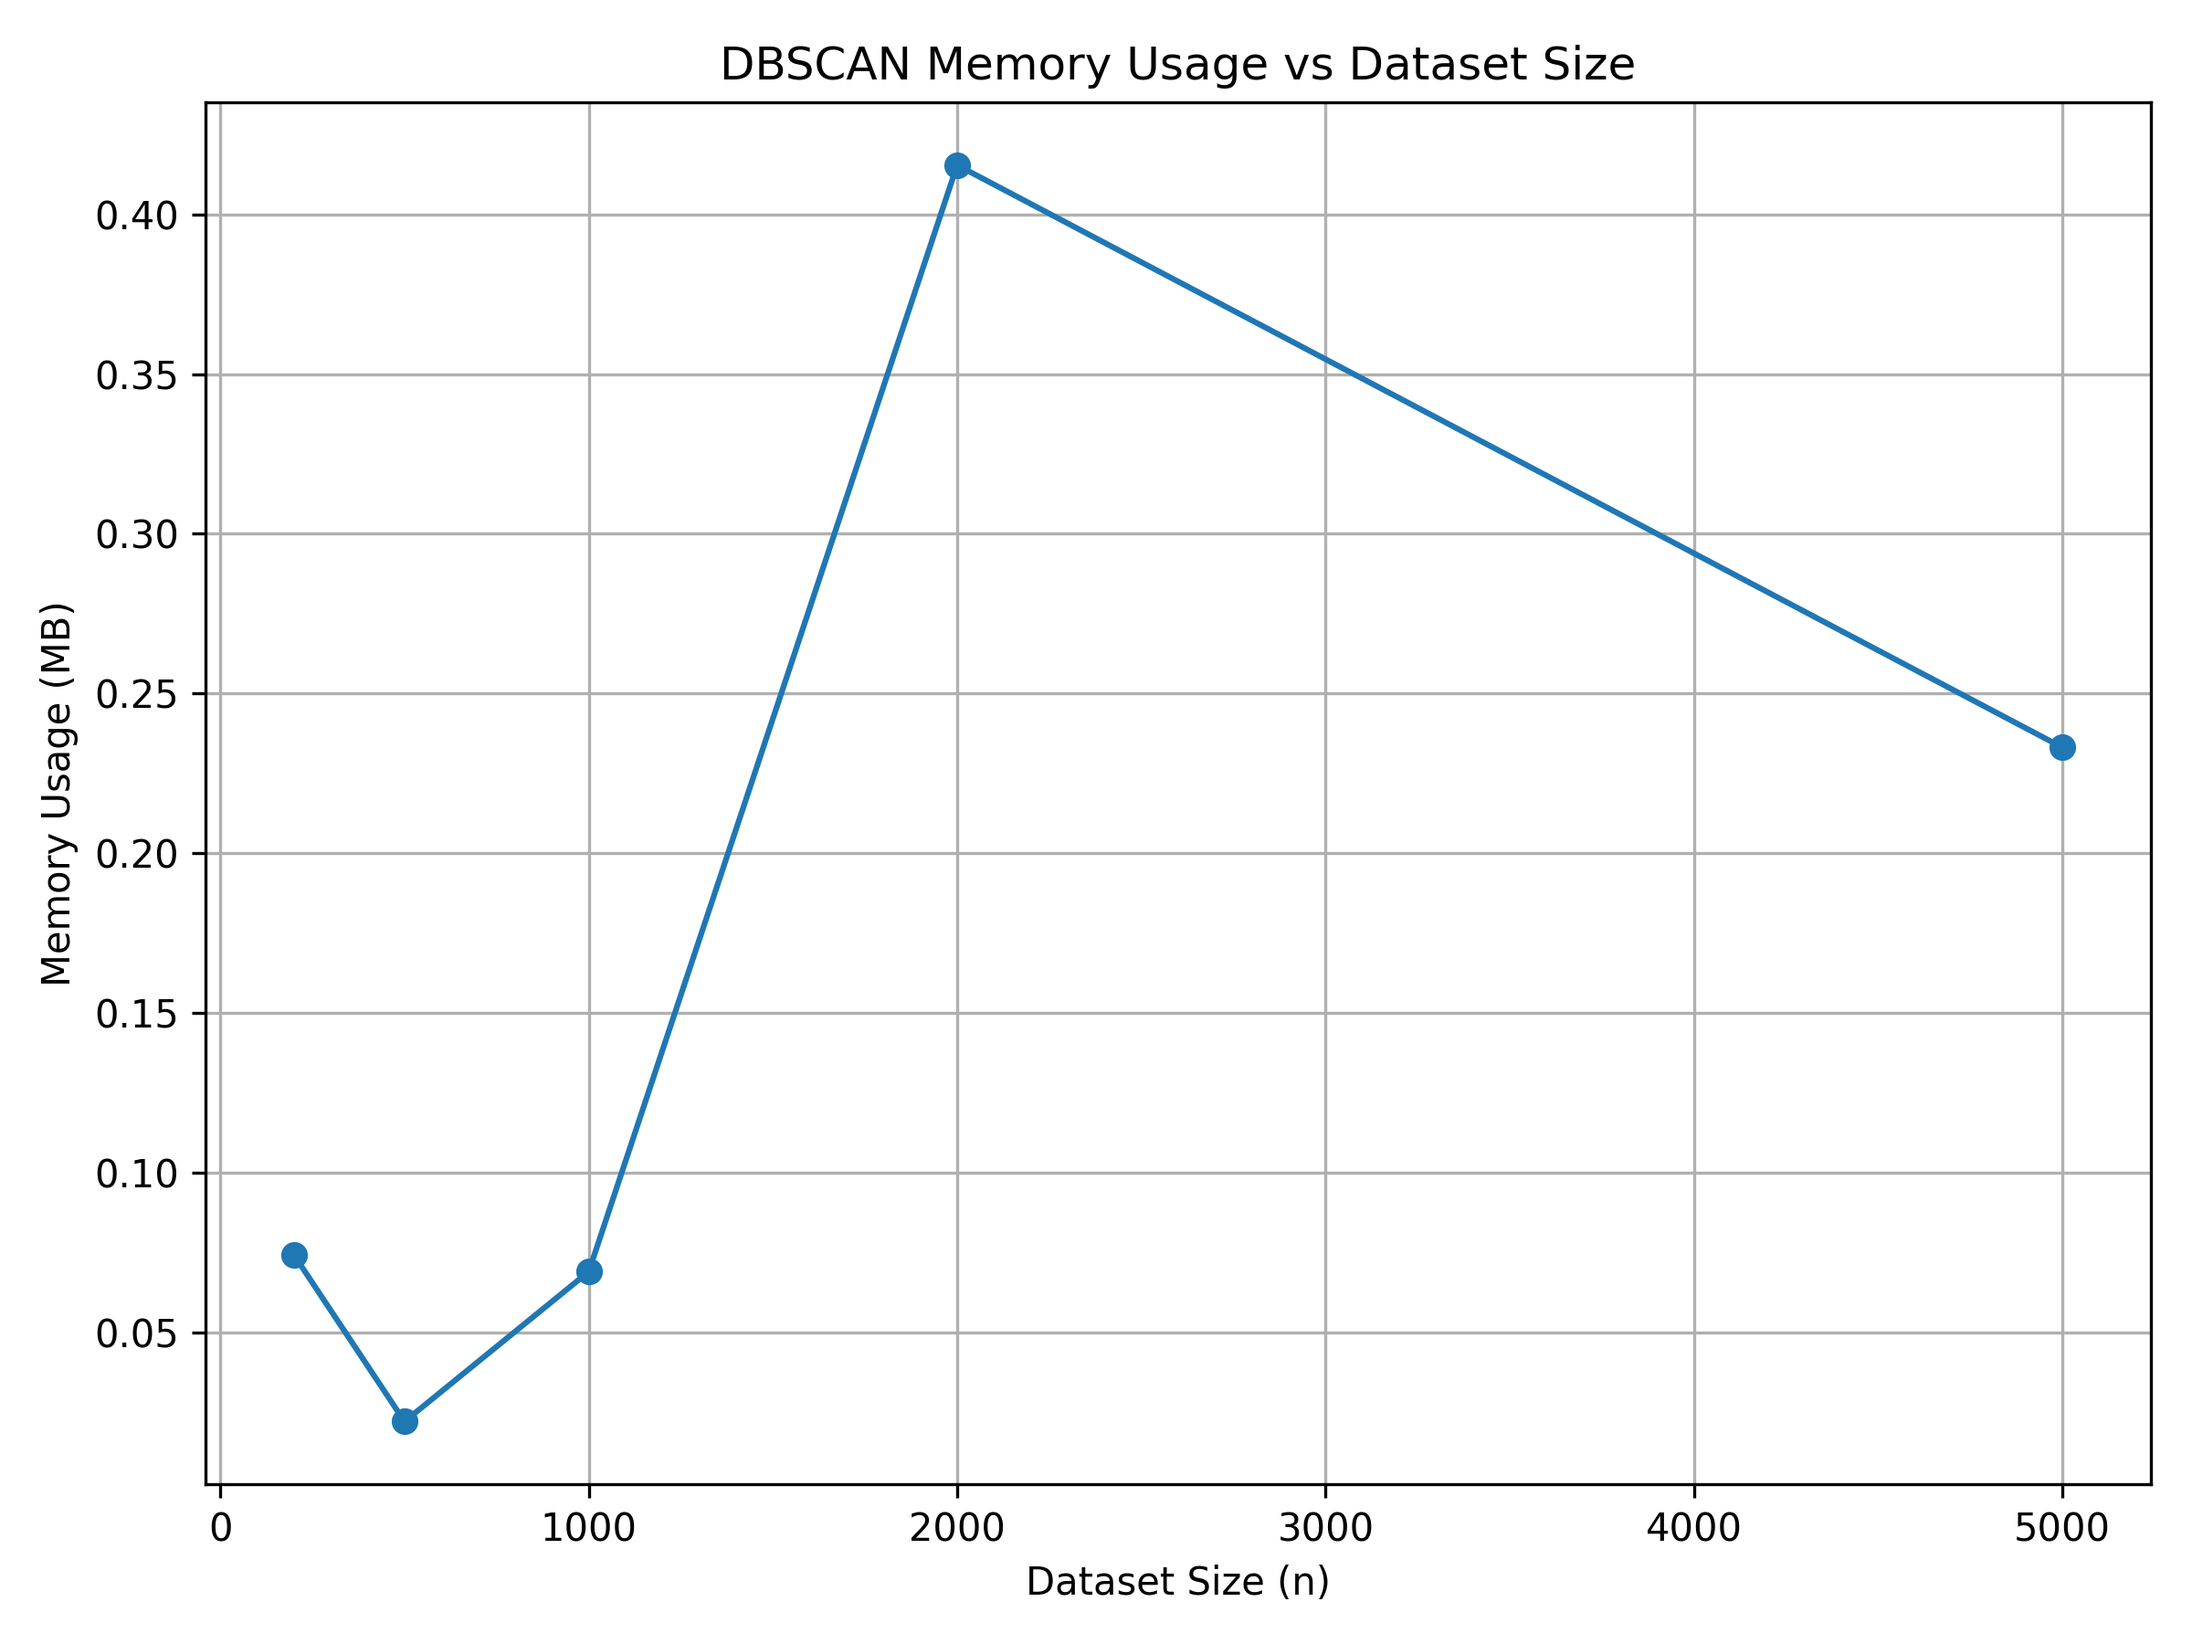
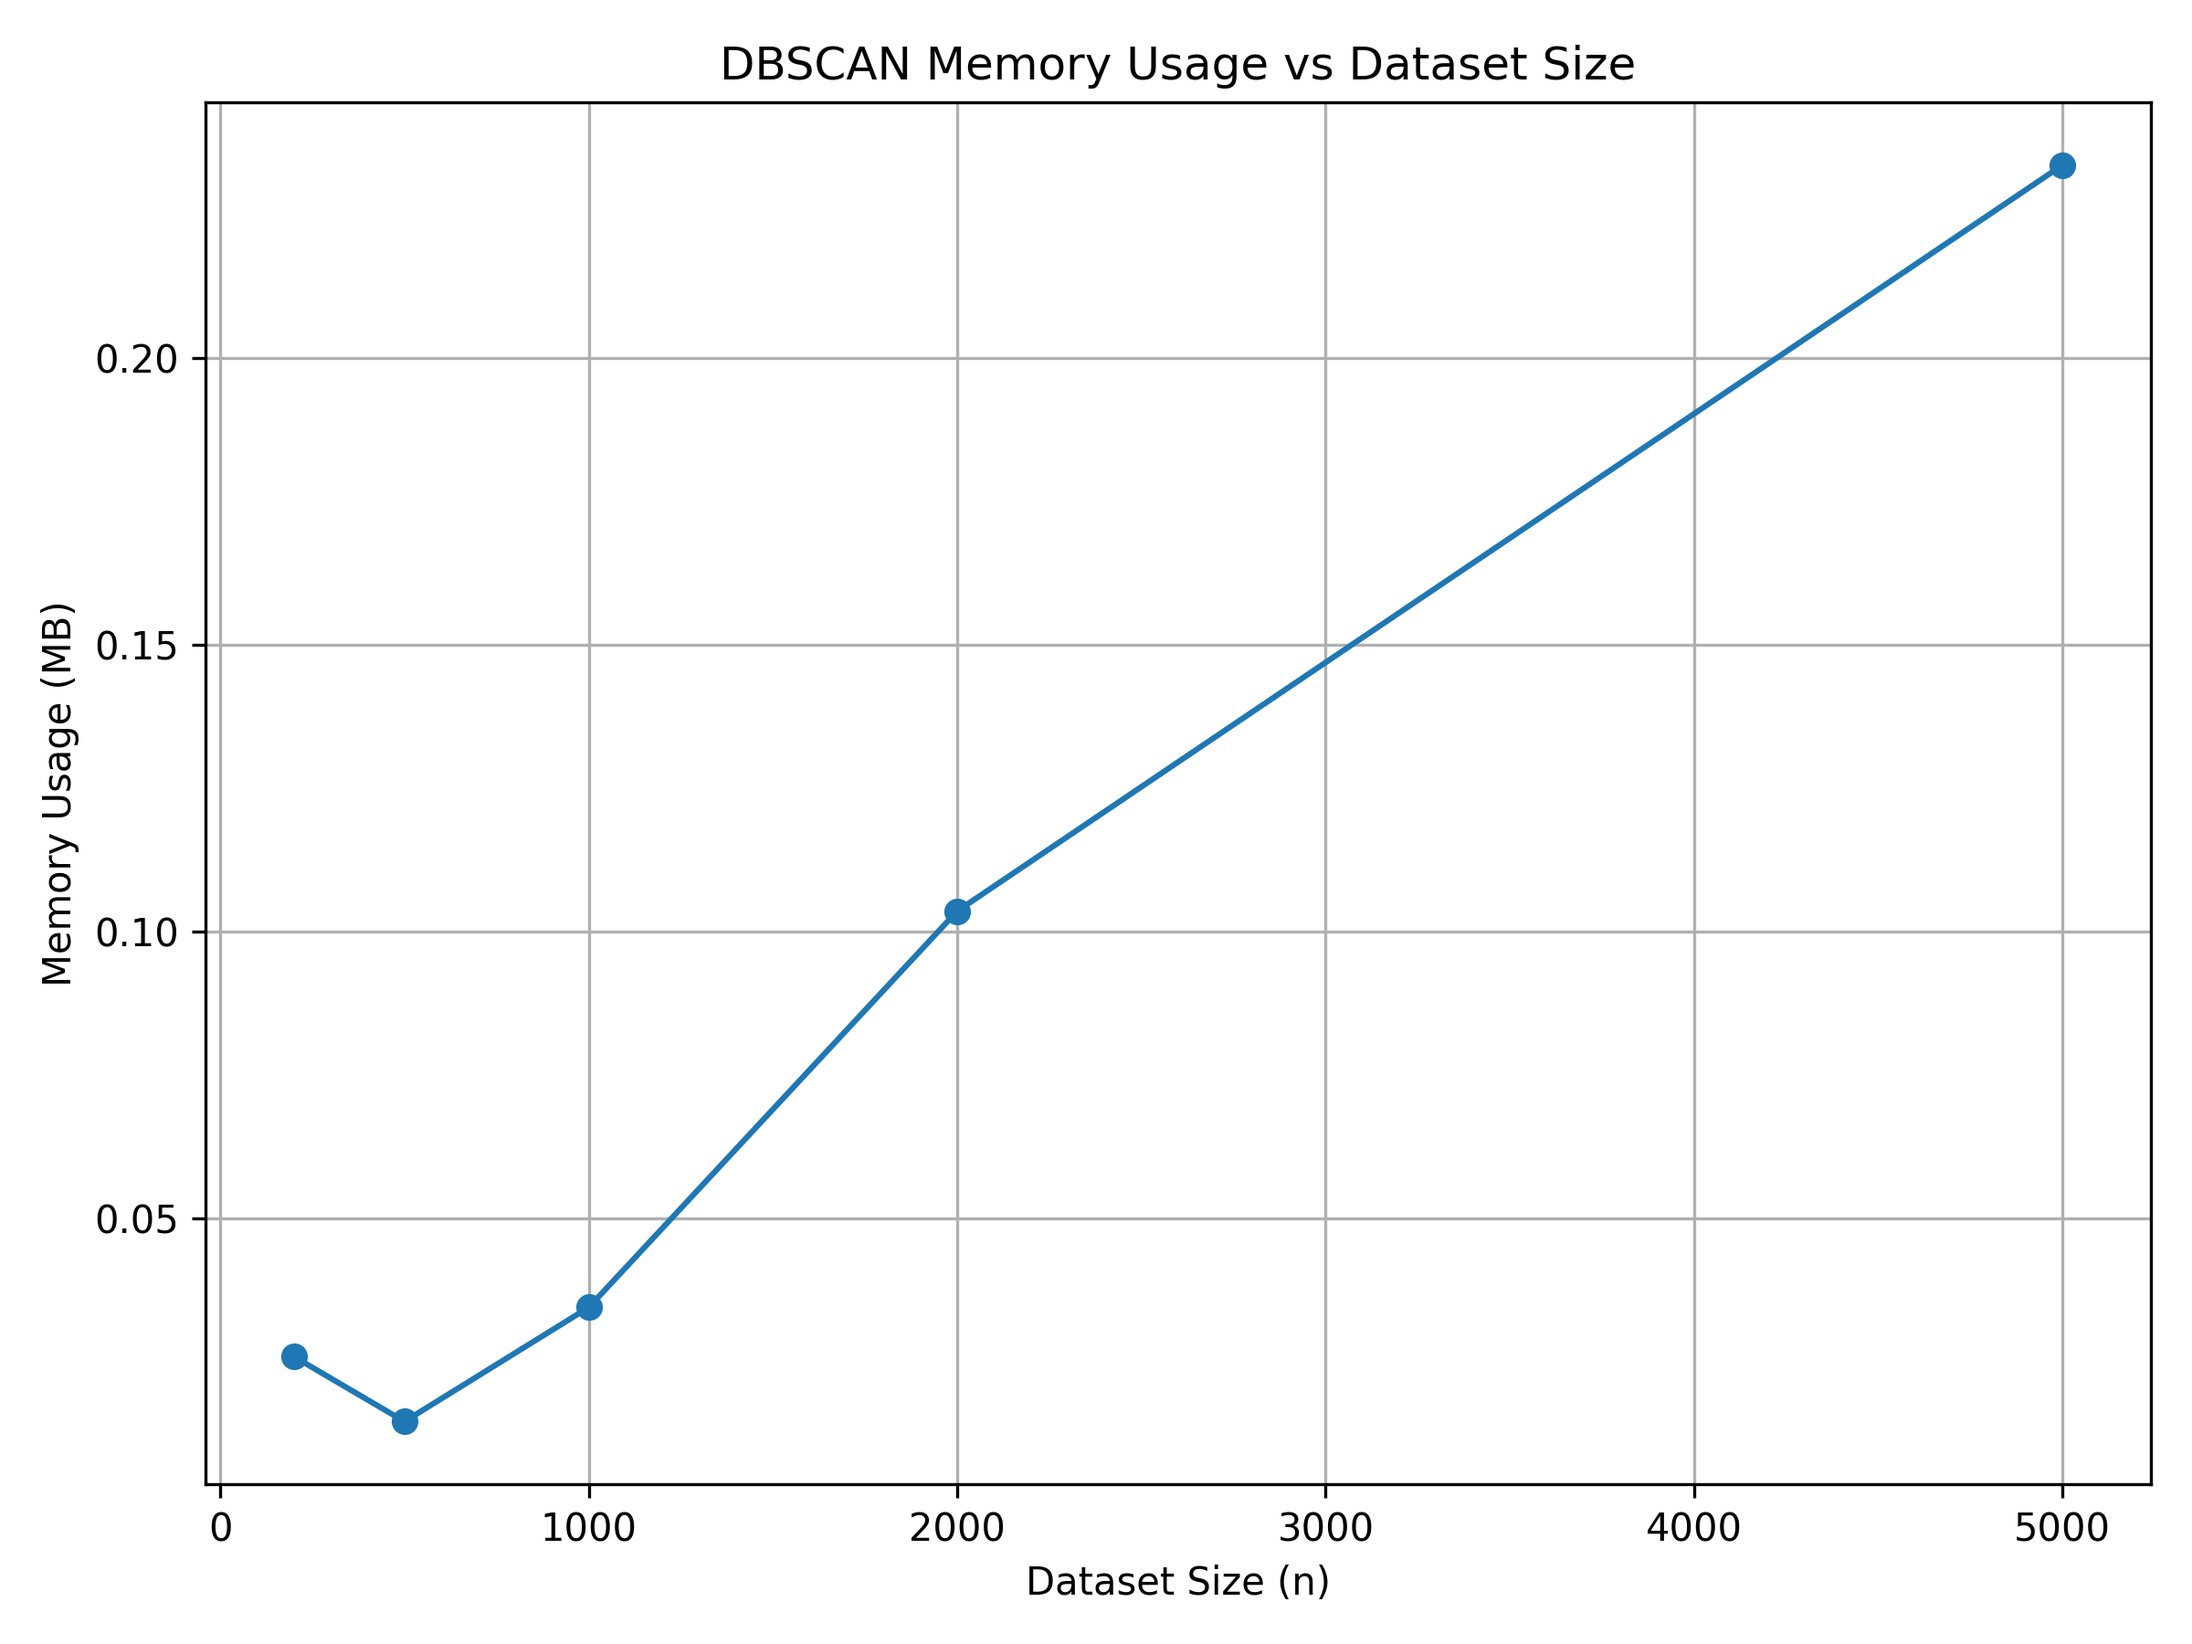
added comments

diff --git a/code/dbscan_scaling.py b/code/dbscan_scaling.py
@@ -9,6 +9,28 @@ from sklearn.cluster import DBSCAN
 from sklearn.metrics import silhouette_score
 
 
+"""
+HOW TO RUN DBSCAN SCALING EXPERIMENT
+
+1. Open a terminal in the project root directory
+
+2. Install required packages (only needed once):
+   pip install numpy pandas scikit-learn psutil
+
+3. Run the script:
+   python code/dbscan_scaling.py
+
+4. What this program does:
+   - Generates synthetic datasets of increasing size
+   - Runs DBSCAN multiple times (10 trials per size)
+   - Measures runtime, memory usage, clustering quality
+
+5. Output:
+   - Raw results saved to: results/dbscan_scaling_raw.csv
+   - Summary results saved to: results/dbscan_scaling_summary.csv
+"""
+
+
 # -----------------------------------
 # Safe silhouette function (same as before)
 # -----------------------------------
@@ -41,6 +63,7 @@ def main():
     eps = 0.5
     min_samples = 5
     num_trials = 10
+
 
     # -----------------------------------
     # STEP 2: setup paths
@@ -118,16 +141,16 @@ def main():
                 "silhouette_score": sil
             })
 
-    # -----------------------------------
-    # STEP 5: save results
-    # -----------------------------------
+    
+# STEP 5: save results
+# -----------------------------------
     df = pd.DataFrame(results)
+
+    # remove negative memory values caused by measurement noise
+    df["memory_mb"] = df["memory_mb"].clip(lower=0)
 
     raw_path = os.path.join(results_dir, "dbscan_scaling_raw.csv")
     df.to_csv(raw_path, index=False)
-
-    print("\nRAW RESULTS:")
-    print(df)
 
     # -----------------------------------
     # STEP 6: average results by n

diff --git a/code/dbscan_Iris.py b/code/dbscan_Iris.py
@@ -22,6 +22,27 @@ from sklearn.metrics import silhouette_score
 from utils import load_iris_data
 
 
+"""
+HOW TO RUN DBSCAN ON IRIS DATASET
+
+1. Open a terminal in the project root directory
+
+2. Install required packages (only needed once):
+   pip install numpy pandas matplotlib scikit-learn
+
+3. Run the script:
+   python code/dbscan_iris.py
+
+4. What this program does:
+   - Runs DBSCAN with different eps and min_samples values
+   - Measures clustering performance using silhouette score
+
+5. Output:
+   - Results saved to: results/dbscan_iris_results.csv
+   - Graphs saved to: graphs/
+"""
+
+
 # this function makes sure silhouette score does not crash
 def safe_silhouette_score(X, labels):
 

diff --git a/code/dbscan_scaling_graphs.py b/code/dbscan_scaling_graphs.py
@@ -3,6 +3,30 @@ import pandas as pd
 import matplotlib.pyplot as plt
 
 
+
+"""
+HOW TO GENERATE DBSCAN SCALING GRAPHS
+
+1. Make sure dbscan_scaling.py has already been run
+
+2. Open a terminal in the project root directory
+
+3. Run the script:
+   python code/dbscan_scaling_graphs.py
+
+4. What this program does:
+   - Reads summary CSV results
+   - Generates graphs for:
+       runtime
+       memory usage
+       silhouette score
+       number of clusters
+       noise points
+
+5. Output:
+   - Graphs saved to: graphs/dbscan_scaling_graphs/
+"""
+
 def plot_scaling_metric(df, metric_col, y_label, title, output_path):
     plt.figure(figsize=(8, 6))
 
